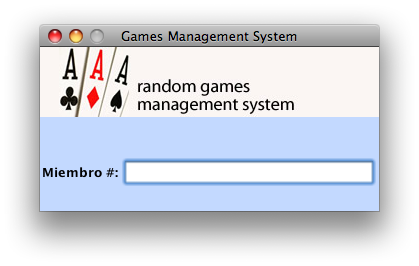
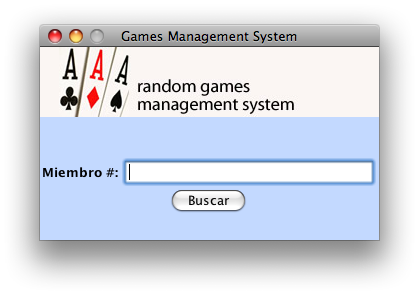
user manual

Changed region(s): [[0.0931, 0.0602, 0.9308, 0.4511], [0.0931, 0.5113, 0.8998, 0.7218], [0.0931, 0.782, 0.9308, 0.812]]

diff --git a/casinodesktop/src/gamesmanager/ui/help/index.html b/casinodesktop/src/gamesmanager/ui/help/index.html
@@ -24,11 +24,11 @@ un diferente empleado quiera tener acceso a las funcionalidades del sistema, el 
 <h2>2. Administraci&oacute;n de clientes</h2>
 <h3>2.1 Dar de alta</h3>
 Para dar de alta un cliente vaya al men&uacute; Archivo / Nuevo miembro... Deber&aacute; ver una pantalla como la que se muestra a continuaci&oacute;n:
-<br><img src="screens/newmember.png" /><br>
+<br><img src="screens/newmember.png" width="944" height="524" /><br>
 La forma se validar&aacute; al momento de dar clic en el bot&oacute;n de Agregar. En caso de que exista alg&uacute;n error al llenar la forma, se le indicar&aacute; para su correcci&oacute;n. Cuando usted selecciona M&eacute;xico como pa&iacute;s, la forma autom&aacute;ticamente desplegar&aacute; la lista de estados de la Rep&uacute;blica para que usted elija el apropiado. La aplicaci&oacute;n mostrar&aacute; pantallas de &eacute;xito o de error seg&uacute;n sea el caso. 
 <h3>2.2 Buscar</h3>
 La &uacute;nica forma de buscar a un cliente es por su n&uacute;mero de identificaci&oacute;n. La manera est&aacute;ndar de lectura de n&uacute;meros de identificaci&oacute;n es a trav&eacute;s del lector de barras leyendo la credencial de cada miembro. La aplicaci&oacute;n buscar&aacute; al miembro en la base de datos de la sucursal local y en la informaci&oacute;n que se tenga sincronizada del resto de las sucursales. En caso de que el miembro sea local, se tendr&aacute; acceso a toda su informaci&oacute;n y se podr&aacute; modificar como sea necesario. Sin embargo, si se trata de un cliente externo, &uacute;nicamente se podr&aacute; ver a qu&eacute; sucursal pertenece y su fotograf&iacute;a. A continuaci&oacute;n se muestra la pantalla de b&uacute;squeda de miembros, en el cuadro de texto deber&aacute; teclearse o leerse con el scanner de c&oacute;digos de barras el n&uacute;mero de identificaci&oacute;n del cliente.
-<br><img src="screens/memberid.png" width="419" height="266" /><br>
+<br><img src="screens/memberid.png" width="419" height="295" /><br>
 En caso de que el cliente no se haya encontrado localmente o en otra de las sucursales, se mostrar&aacute; la siguiente pantalla:
 <br><img src="screens/wrongmemberid.png" width="419" height="266" /><br>
 Si el miembro existe en la base de datos se le mostrar&aacute; una lista de acciones posibles para ese miembro como la que se muestra a continuaci&oacute;n:
@@ -54,7 +54,7 @@ La operaci&oacute;n es irreversible.<br><img src="screens/deletememberconf.png" 
 <h3>3.1 Dar de alta</h3>
 <p>Para dar de alta un empleado vaya al men&uacute; Archivo / Nuevo empleado... Deber&aacute; ver una pantalla como la que se muestra a continuaci&oacute;n:
   <br>
-  <img src="screens/newemployee.png" width="788" height="591" /><br>
+  <img src="screens/newemployee.png" width="796" height="591" /><br>
 La forma se validar&aacute; al momento de dar clic en el bot&oacute;n de Agregar. En caso de que exista alg&uacute;n error al llenar la forma, se le indicar&aacute; para su correcci&oacute;n. M&eacute;xico est&aacute; seleccionado autom&aacute;ticamente como pa&iacute;s pues no se pueden contratar empleados que vivan fuera de M&eacute;xico, la forma autom&aacute;ticamente desplegar&aacute; la lista de estados de la Rep&uacute;blica para que usted elija el apropiado. La aplicaci&oacute;n mostrar&aacute; pantallas de &eacute;xito o de error seg&uacute;n sea el caso.</p>
 <h3>3.2 Buscar</h3>
 Para buscar un empleado vaya al men&uacute; Administrar / Empleados... Se mostrar&aacute; una pantalla con todos los empleados registrados en el sistema en donde se pueden buscar para realizar operaciones con ellos. Los empleados se mostrar&aacute;n en orden alfab&eacute;tico por nombre:
@@ -67,18 +67,41 @@ Si tiene los suficientes permisos para desactivar la cuenta, se mostrar&aacute; 
 <br><img src="screens/accountdeactivated.png" width="426" height="258" /><br>
 Posteriormente se actualizar&aacute; autom&aacute;ticamente la ventana de Administraci&oacute;n de empleados con el cambio realizado.
 <h3>3.4 Reactivar cuenta de usuario</h3>
-asfdasfd a dfssdfa sadfasdf
+Primero encuentre al empleado cuya cuenta desea reactivar siguiendo las instrucciones del inciso 3.2. Ahora d&eacute; doble clic sobre la fila del empleado a reactivar y seleccione la opci&oacute;n &quot;Reactivar cuenta de usuario&quot;:
+<br>
+<img src="screens/reactivateaccount.png" width="512" height="258" /><br>
+Si tiene los suficientes permisos para reactivar la cuenta, se mostrar&aacute; un mensaje de confirmaci&oacute;n como el siguiente:
+<br>
+<img src="screens/accountreactivated.png" width="416" height="258" /><br>
+Posteriormente se actualizar&aacute; autom&aacute;ticamente la ventana de Administraci&oacute;n de empleados con el cambio realizado.
 <h3>3.5 Dar de baja temporal</h3>
-asfdasfd a dfssdfa sadfasdf
+Primero encuentre al empleado que desea dar de baja siguiendo las instrucciones del inciso 3.2. Ahora d&eacute; doble clic sobre la fila del empleado y seleccione la opci&oacute;n &quot;Dar baja temporal&quot;:
+<br>
+<img src="screens/firetemp.png" width="512" height="258" /><br>
+Si tiene los suficientes permisos para dar de baja al empleao, se mostrar&aacute; un mensaje de confirmaci&oacute;n como el siguiente:
+<br>
+<img src="screens/firetempconf.png" width="439" height="258" /><br>
+Posteriormente se actualizar&aacute; autom&aacute;ticamente la ventana de Administraci&oacute;n de empleados con el cambio realizado.
 <h3>3.6 Recontratar empleado</h3>
-asfdasfd a dfssdfa sadfasdf
+Primero encuentre al empleado que desea recontratar siguiendo las instrucciones del inciso 3.2. Ahora d&eacute; doble clic sobre la fila del empleado  y seleccione la opci&oacute;n &quot;Recontratar empleado&quot;:
+<br>
+<img src="screens/rehire.png" width="512" height="258" /><br>
+Si tiene los suficientes permisos para recontratar al empleado, se mostrar&aacute; un mensaje de confirmaci&oacute;n como el siguiente:
+<br>
+<img src="screens/rehiretemp.png" width="379" height="258" /><br>
+Posteriormente se actualizar&aacute; autom&aacute;ticamente la ventana de Administraci&oacute;n de empleados con el cambio realizado.
 <h3>3.7 Dar de baja definitiva</h3>
-asfdasfd a dfssdfa sadfasdf
+No es posible dar de baja definitiva a un empleado dado que siempre se almacenar&aacute; informaci&oacute;n hist&oacute;rica de los mismos aunque ya no laboren en el casino.
 <h3>3.8 Cambiar usuario o contrase&ntilde;a</h3>
 asfdasfd a dfssdfa sadfasdf
 <h3>3.9 Actualizar informaci&oacute;n personal</h3>
-asfdasfd a dfssdfa sadfasdf
+Primero encuentre al empleado cuya informaci&oacute;n desea actualizar siguiendo las instrucciones del inciso 3.2. Ahora d&eacute; doble clic sobre la fila del empleado y seleccione la opci&oacute;n &quot;Reactivar cuenta de usuario&quot;:
 <br>
+<img src="screens/editinfoemp.png" width="512" height="258" /><br>
+Si tiene los suficientes permisos para actualizar la informaci&oacute;n, se mostrar&aacute; una pantalla coma la siguiente:
+<br>
+<img src="screens/editinfoempconf.png" width="796" height="591" /><br>
+Haga los cambios correspondientes y d&eacute; clic sobre el bot&oacute;n de &quot;Guardar cambios&quot; al terminar. La forma se validar&aacute; como cuando se insert&oacute; el cliente.<br>
 <h2>4. Administraci&oacute;n de tipos de juego</h2>
 <h3>4.1 Dar de alta</h3>
 <br><img src="screens/addgametype.png" width="420" height="260" /><br>
